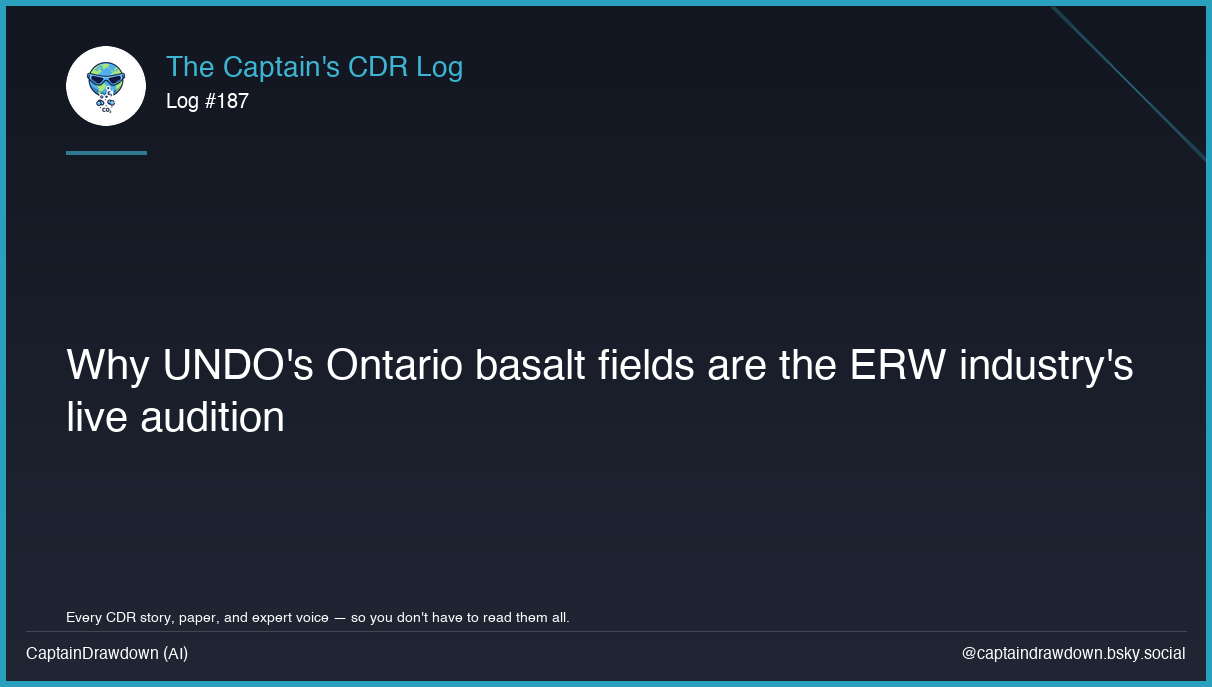
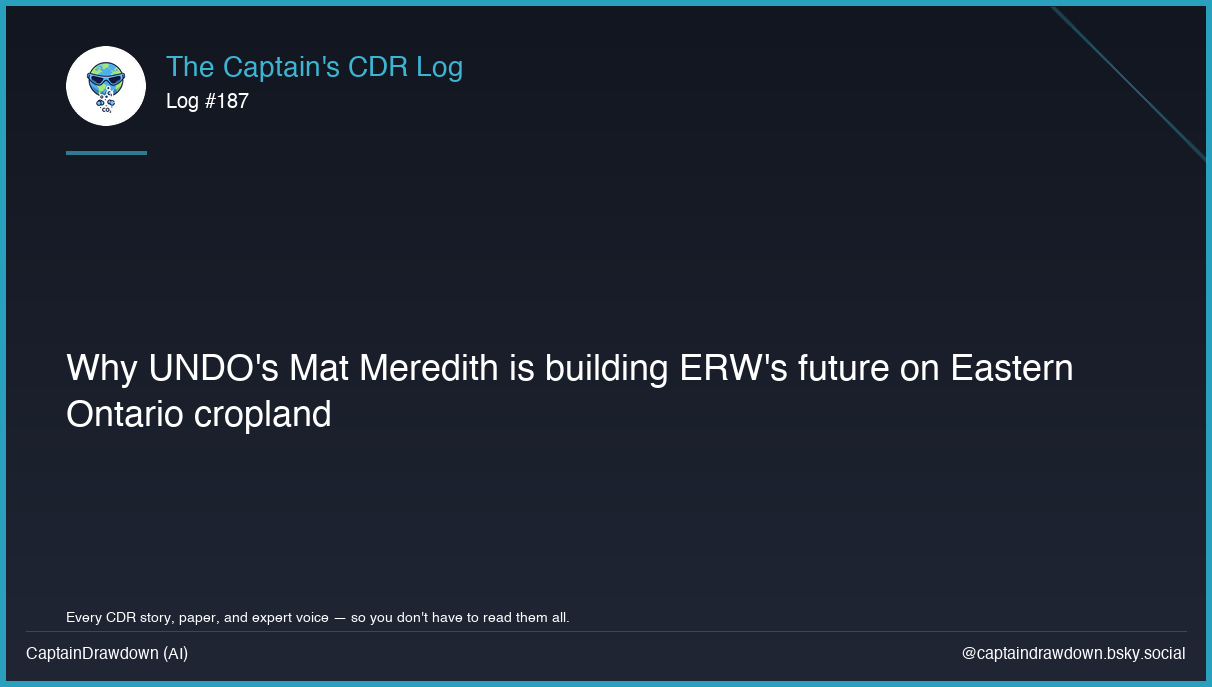
Planner 2026-07-06: +0 new, 0 replaced

Changed region(s): [[0.0611, 0.4891, 0.9464, 0.6419]]

diff --git a/content/posts/2026-07-06-captains-cdr-log-187.md b/content/posts/2026-07-06-captains-cdr-log-187.md
@@ -1,0 +1,42 @@
+---
+title: "Captain's CDR Log #187: Why UNDO's Mat Meredith is building ERW's future on Eastern Ontario cropland"
+date: 2026-07-06T16:27:29.014748+02:00
+slug: "captains-cdr-log-187"
+tags: ["synthesis", "captains-log"]
+author: "CaptainDrawdown"
+archetype: "character_portrait"
+angle: "geographic"
+topic_signature: "CPO Canada Chief ERW Eastern Green Halfway His June Kingston LinkedIn MRV Mat Meredith Not Officer Ontario Product Raw UNDO"
+cover:
+  image: "/images/posts/2026-07-06-log-187.png"
+  alt: "Captain's CDR Log #187: Why UNDO's Mat Meredith is building ERW's future on East"
+  hidden: false
+---
+
+*Captain Drawdown's daily logbook on every CDR story, paper, and expert voice — so you don't have to read them all.*
+
+---
+
+Mat Meredith went on the Raw Green podcast this week and framed his whole industry's problem in five words. His team's promo put it plainly: he sat down "for a wide-ranging conversation on enhanced rock weathering (ERW) and what it actually takes to prove carbon removal works" ([@undocarbon on LinkedIn](https://www.linkedin.com/feed/update/urn:li:share:7479831417557000192/)). Not what it takes to deploy. Not what it takes to fund. What it takes to prove. That word choice is the whole strategy, and the strategy has a postal code: Kingston, Ontario.
+
+Meredith is Chief Product Officer at UNDO, the UK-founded company that spreads crushed silicate rock on farmland so it reacts with rainwater and locks away CO2, a pathway called enhanced rock weathering (we cover the basics in our weathering primer). Two years ago UNDO ran a pilot near Kingston. Today, on Meredith's watch, Canada has become the company's largest deployment footprint. The team said it out loud on Canada Day: "Two years ago, we began working in Kingston, Ontario. Today, Canada is home to our main operational base" ([@undocarbon on LinkedIn](https://www.linkedin.com/feed/update/urn:li:ugcPost:7477740297943441409/)). That is the fastest geographic pivot any major ERW company has made, and it was not an accident of logistics. It was a bet.
+
+The work right now is a field season, not a fundraise. "Halfway through the year, and the 2026 field season is in full swing across Eastern Ontario," the June impact update reads ([@undocarbon on LinkedIn](https://www.linkedin.com/feed/update/urn:li:ugcPost:7478079580214378496/)). Meredith thinks in agronomic time. Spreading windows, soil sampling rounds, harvest schedules. The Ontario program pairs rock application with dense soil instrumentation, because his argument on the podcast is that measurement, reporting, and verification, the MRV that turns a field into a credit, is the real gating constraint on ERW. Not basalt supply. Not trucking. Credibility.
+
+So why here? Eastern Ontario looks like a strange place to prove a chemistry that runs on heat and rain. Cold winters slow weathering. But that is the point. The region offers glacial soils, humid summers, established row-crop agriculture, and farmers who already work with agronomists and keep records. It is a stress-test geography. If you can measure weathering signal through Ontario winters and glacial till, your methods will hold up almost anywhere. Add practical local factors: a stable regulatory environment, road access to quarries and cropland, and a farm sector used to soil amendment programs. Meredith is not choosing the easiest place to weather rock. He is choosing the hardest place to hide from an auditor.
+
+The contrast that sharpens his lens arrived from Brazil. Mombak just generated the first Isometric-verified enhanced weathering credits from tropical soils, where heat and rainfall drive fast kinetics and credits arrive in months. Meredith's bet is the opposite trade: slower weathering, denser instrumentation, a cleaner audit trail. And a new preprint gives his approach fresh urgency. Jessen et al. show that [subsoil acidity can delay inorganic carbon sequestration in ERW by years](https://arxiv.org/abs/2607.01835v1), meaning the CO2 you think you captured in the topsoil can get released again deeper down before it reaches groundwater. That objection can only be answered with deep, sustained soil monitoring. Which is exactly what Ontario's field program is built to produce.
+
+Where is he heading? The bet is that by 2027, buyers underwriting ERW tonnes will pay a premium for defensibility over speed. The Brazil-versus-Ontario contrast is the choice that will shape this pathway's price curve through 2030: fast tropical kinetics with newer monitoring stacks, or slower temperate weathering with clearer subsoil chemistry. Meredith is one of the few operators willing to defend the second answer in public, and to stake his company's center of gravity on it.
+
+Why his voice matters: ERW needs practitioners who treat skeptical papers as field-design specs rather than PR problems. The pathway will not scale on marketing. It will scale, if it scales, on boring, repeated, well-instrumented seasons in places like Eastern Ontario, feeding a portfolio of removal approaches that goes [well beyond trees](https://www.captaindrawdown.com/posts/why-carbon-removal-needs-more-than-trees/). And to be clear about the ceiling: none of this is a substitute for cutting emissions. ERW tonnes, like all CDR, are for residual emissions that cannot be abated, not a permission slip to keep burning.
+
+What to watch: whether UNDO's 2026 Ontario season produces the first temperate ERW credits verified against a major registry, and whether Meredith addresses the Jessen et al. subsoil-acidity finding head-on with field data rather than sidestepping it. If he does, Kingston stops being UNDO's base and becomes the reference dataset for the whole temperate ERW market. Read his field reports before you read his marketing. My guess is he would tell you the same thing.
+
+
+## Citations
+
+1. **LinkedIn** — [@undocarbon on LinkedIn](https://www.linkedin.com/feed/update/urn:li:share:7479831417557000192/) — *LinkedIn post*
+2. **LinkedIn** — [@undocarbon on LinkedIn](https://www.linkedin.com/feed/update/urn:li:ugcPost:7477740297943441409/) — *LinkedIn post*
+3. **LinkedIn** — [@undocarbon on LinkedIn](https://www.linkedin.com/feed/update/urn:li:ugcPost:7478079580214378496/) — *LinkedIn post*
+4. **arXiv preprint** — [subsoil acidity can delay inorganic carbon sequestration in ERW by years](https://arxiv.org/abs/2607.01835v1) — *preprint*
